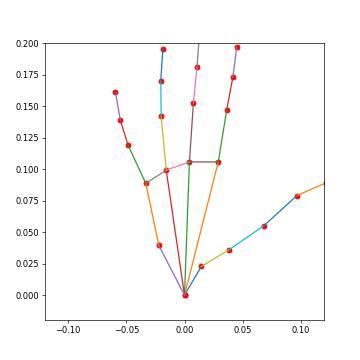
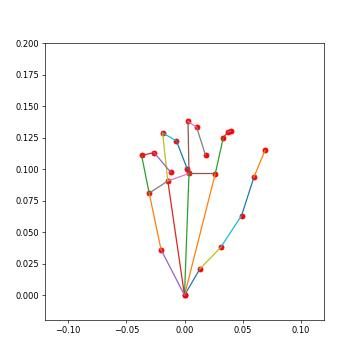
adding left arm control2

diff --git a/src/beavr/components/detector/left_keypoint_transform.py b/src/beavr/components/detector/left_keypoint_transform.py
@@ -5,6 +5,11 @@ from beavr.constants import *
 from beavr.utils.vectorops import *
 from beavr.utils.network import ZMQKeypointPublisher, ZMQKeypointSubscriber
 from beavr.utils.timer import FrequencyTimer
+from enum import Enum, auto, IntEnum
+
+class HandMode(IntEnum):
+    ABSOLUTE = 0
+    RELATIVE = 1
 
 # This class is used to transform the left hand coordinates from the VR to the robot frame.
 class TransformLeftHandPositionCoords(Component):
@@ -19,18 +24,24 @@ class TransformLeftHandPositionCoords(Component):
         self.timer = FrequencyTimer(VR_FREQ)
         
         # Keypoint indices for knuckles
-        self.knuckle_points = (OCULUS_JOINTS['knuckles'][0], OCULUS_JOINTS['knuckles'][-1])
+        self.wrist_idx = 0  # Wrist is typically the first point
+        self.index_knuckle_idx = OCULUS_JOINTS['knuckles'][0]  # Index finger knuckle
+        self.middle_knuckle_idx = OCULUS_JOINTS['knuckles'][1]  # Middle finger knuckle
+        self.pinky_knuckle_idx = OCULUS_JOINTS['knuckles'][-1]  # Pinky finger knuckle
 
         # Moving average queue
         self.moving_average_limit = moving_average_limit
         self.coord_moving_average_queue, self.frame_moving_average_queue = [], []
 
     def _get_hand_coords(self):
-
         # This is for getting hand keypoints from VR.
         data = self.original_keypoint_subscriber.recv_keypoints()
-        if data[0] == 0:
+        if data is None:
+            return None, None
+            
+        if data[0] == HandMode.ABSOLUTE:
             data_type = 'absolute'
+            print(f"Received absolute hand coords: {data[1:]}")
         else:
             data_type = 'relative'
 
@@ -40,16 +51,70 @@ class TransformLeftHandPositionCoords(Component):
         #Find the vectors with respect to the wrist.
         return copy(hand_coords) - hand_coords[0]
 
-    # Create a coordinate frame for the hand
-    def _get_coord_frame(self, index_knuckle_coord, pinky_knuckle_coord):
+    # New method to orthogonalize a set of vectors to ensure they form a valid rotation matrix
+    def _orthogonalize_frame(self, x_vec, y_vec, z_vec):
+        """Ensure three vectors form an orthogonal frame using Gram-Schmidt process"""
+        # Ensure x is normalized
+        x_vec = normalize_vector(x_vec)
+        
+        # Make y orthogonal to x
+        y_vec = y_vec - np.dot(y_vec, x_vec) * x_vec
+        y_vec = normalize_vector(y_vec)
+        
+        # Make z orthogonal to both x and y
+        z_vec = np.cross(x_vec, y_vec)
+        z_vec = normalize_vector(z_vec)
+        
+        return x_vec, y_vec, z_vec
 
+    # Create a stable coordinate frame for the hand using multiple landmarks
+    def _get_stable_coord_frame(self, hand_coords):
+        """Create a more stable coordinate frame using multiple hand landmarks"""
+        wrist = hand_coords[self.wrist_idx]
+        v1 = hand_coords[self.index_knuckle_idx] - wrist
+        v2 = hand_coords[self.pinky_knuckle_idx] - wrist
+        v3 = hand_coords[self.middle_knuckle_idx] - wrist
+
+        # Calculate frame vectors using multiple references
+        palm_normal = normalize_vector(np.cross(v1, v3))  # Z direction
+        palm_direction = normalize_vector((v1 + v2 + v3) / 3)  # Y direction
+        cross_product = normalize_vector(np.cross(palm_direction, palm_normal))  # X direction
+
+        # Orthogonalize explicitly to ensure a valid rotation matrix
+        x_vec, y_vec, z_vec = self._orthogonalize_frame(cross_product, palm_direction, palm_normal)
+
+        # Return as a list of vectors for compatibility with existing code
+        return [x_vec, y_vec, z_vec]
+
+    # Create a stable coordinate frame for the arm
+    def _get_stable_hand_dir_frame(self, hand_coords):
+        """Create a more stable frame for hand direction using multiple landmarks"""
+        wrist = hand_coords[self.wrist_idx]
+        v1 = hand_coords[self.index_knuckle_idx] - wrist
+        v2 = hand_coords[self.pinky_knuckle_idx] - wrist
+        v3 = hand_coords[self.middle_knuckle_idx] - wrist
+
+        # Calculate frame vectors using multiple references
+        palm_normal = normalize_vector(np.cross(v1, v3))  # Unity space - Y
+        palm_direction = normalize_vector((v1 + v2 + v3) / 3)  # Unity space - Z
+        cross_product = normalize_vector(np.cross(palm_direction, palm_normal))  # Unity space - X
+
+        # Orthogonalize explicitly
+        x_vec, y_vec, z_vec = self._orthogonalize_frame(cross_product, palm_normal, palm_direction)
+        
+        return [wrist, x_vec, y_vec, z_vec]
+
+    # Create a coordinate frame for the hand - legacy method kept for compatibility
+    def _get_coord_frame(self, index_knuckle_coord, pinky_knuckle_coord):
         #This function is used for retargeting hand keypoints from oculus. The frames here are in robot frame.
         palm_normal = normalize_vector(np.cross(index_knuckle_coord, pinky_knuckle_coord))   # Current Z
         palm_direction = normalize_vector(index_knuckle_coord + pinky_knuckle_coord)         # Current Y
         cross_product = normalize_vector(np.cross(palm_direction, palm_normal))              # Current X
-        return [cross_product, palm_direction, palm_normal]
+        
+        # Orthogonalize for improved stability
+        return self._orthogonalize_frame(cross_product, palm_direction, palm_normal)
 
-    # Create a coordinate frame for the arm
+    # Create a coordinate frame for the arm - legacy method kept for compatibility
     def _get_hand_dir_frame(self, origin_coord, index_knuckle_coord, pinky_knuckle_coord):
         # Calculating the transform in Left Handed system itself as unity being left hand coordinate system. This transform sends the frame in the form of vectors in Left Hand coordinate frame. Since we use only the relative transform between the hand movements the coordinate system does not matter. 
         # We find the relative transformation between the hand moving frames and use that to find the transformation in the robot frame and this does not depend on the coordinate system
@@ -58,27 +123,24 @@ class TransformLeftHandPositionCoords(Component):
         palm_direction = normalize_vector(pinky_knuckle_coord+index_knuckle_coord)         # Unity space Z            
         cross_product = normalize_vector(pinky_knuckle_coord-index_knuckle_coord)         # Unity space X 
 
-        return [origin_coord, cross_product, palm_normal, palm_direction]
+        # Orthogonalize for improved stability
+        x_vec, y_vec, z_vec = self._orthogonalize_frame(cross_product, palm_normal, palm_direction)
+        
+        return [origin_coord, x_vec, y_vec, z_vec]
 
     # Function to transform the hand keypoints to the robot frame
     def transform_keypoints(self, hand_coords):
-       
         translated_coords = self._translate_coords(hand_coords)  # Finding hand coords with respect to the wrist
 
-        original_coord_frame = self._get_coord_frame(           # Finding the original coordinate frame
-            translated_coords[self.knuckle_points[0]], 
-            translated_coords[self.knuckle_points[1]]
-        )
+        # Use the new, more stable coordinate frame method
+        original_coord_frame = self._get_stable_coord_frame(translated_coords)
        
         rotation_matrix = np.linalg.solve(original_coord_frame, np.eye(3)).T # Finding the rotation matrix and rotating the coordinates
         
         transformed_hand_coords = (rotation_matrix @ translated_coords.T).T # Find the transformed hand coordinates in the robot frame
-        # Find the transformed arm frame using knuckle coords
-        hand_dir_frame = self._get_hand_dir_frame(
-            hand_coords[0],
-            translated_coords[self.knuckle_points[0]], 
-            translated_coords[self.knuckle_points[1]]
-        )
+        
+        # Use the new, more stable hand direction frame method
+        hand_dir_frame = self._get_stable_hand_dir_frame(hand_coords)
 
         return transformed_hand_coords, hand_dir_frame
 
@@ -88,33 +150,54 @@ class TransformLeftHandPositionCoords(Component):
                 self.timer.start_loop()
                 # Get the hand coordinates
                 data_type, hand_coords = self._get_hand_coords()
+                if hand_coords is None:
+                    continue
 
                 # Find the transformed hand coordinates and the transformed hand local frame
                 transformed_hand_coords, translated_hand_coord_frame = self.transform_keypoints(hand_coords)
 
-                # Passing the transformed coords into a moving average to filter the noise. The higher the moving average limit, the more the noise is filtered. But values higher than 50 might make the keypoint less responsive.
+                # Passing the transformed coords into a moving average to filter the noise
                 self.averaged_hand_coords = moving_average(
                     transformed_hand_coords, 
                     self.coord_moving_average_queue, 
                     self.moving_average_limit
                 )
 
-                # Passing the transformed frame into a moving average to filter the noise. The higher the moving average limit, the more the noise is filtered. But the
+                # Passing the transformed frame into a moving average to filter the noise
                 self.averaged_hand_frame = moving_average(
                     translated_hand_coord_frame, 
                     self.frame_moving_average_queue, 
                     self.moving_average_limit
                 )
+                
+                # Ensure frame vectors remain orthogonal regardless of data type
+                # Keep origin point as is
+                origin = self.averaged_hand_frame[0]
+                # Extract the rotation vectors
+                x_vec = normalize_vector(self.averaged_hand_frame[1])
+                y_vec = normalize_vector(self.averaged_hand_frame[2])
+                z_vec = normalize_vector(self.averaged_hand_frame[3])
+                
+                # Re-orthogonalize the frame
+                x_vec, y_vec, z_vec = self._orthogonalize_frame(x_vec, y_vec, z_vec)
+                
+                # Reconstruct orthogonal frame
+                self.averaged_hand_frame = [origin, x_vec, y_vec, z_vec]
+                
                 # Publish the transformed hand coordinates
                 self.transformed_keypoint_publisher.pub_keypoints(self.averaged_hand_coords, 'transformed_hand_coords')
+                
                 # Publish the transformed hand frame
                 if data_type == 'absolute':
+                    print(f"Publishing transformed hand frame: {self.averaged_hand_frame}")
                     self.transformed_keypoint_publisher.pub_keypoints(self.averaged_hand_frame, 'transformed_hand_frame')
                 
                 # End the timer
                 self.timer.end_loop()
-            except:
+            except Exception as e:
+                print(f"Error in left keypoint transform: {e}")
                 break
+                
         # Stop the subscriber and publisher
         self.original_keypoint_subscriber.stop()
         self.transformed_keypoint_publisher.stop()

diff --git a/src/beavr/components/operators/xarm7_right.py b/src/beavr/components/operators/xarm7_right.py
@@ -77,13 +77,6 @@ class XArm7RightOperator(Operator):
         # Basic initialization
         self.notify_component_start('xarm7 right_operator')
         self._host, self._port = host, transformed_keypoints_port
-
-        # Add finger coordinate subscriber (like Allegro)
-        self._hand_transformed_keypoint_subscriber = ZMQKeypointSubscriber(
-            host = self._host,
-            port = self._port,
-            topic = 'transformed_hand_coords'
-        )
         
         self._arm_transformed_keypoint_subscriber = ZMQKeypointSubscriber(
             host=host,
@@ -175,13 +168,13 @@ class XArm7RightOperator(Operator):
         return self._robot
 
     @property
-    def transformed_hand_keypoint_subscriber(self):
-        """Required by Operator base class."""
-        return self._hand_transformed_keypoint_subscriber
-
-    @property
     def transformed_arm_keypoint_subscriber(self):
         return self._arm_transformed_keypoint_subscriber
+
+    @property
+    def transformed_hand_keypoint_subscriber(self):
+        """Required property from the Operator abstract class, returning None"""
+        return None
 
     def return_real(self):
         return self.real
@@ -193,6 +186,8 @@ class XArm7RightOperator(Operator):
         """Get the hand frame with efficient caching strategy."""
         # Try to get new data (just once to avoid latency)
         data = self._arm_transformed_keypoint_subscriber.recv_keypoints(flags=zmq.NOBLOCK)
+
+        print(data)
         
         if data is None:
             # If no new data, use cached frame immediately
@@ -324,14 +319,6 @@ class XArm7RightOperator(Operator):
     # ------------------------------
     # Main teleop: transforms
     # ------------------------------
-
-    def _get_finger_coords(self):
-        """Get transformed finger coordinates."""
-        finger_coords = self._arm_transformed_keypoint_subscriber.recv_keypoints()
-        if finger_coords is not None:
-            return np.array(finger_coords).reshape(-1, 3)
-        return None
-
     def _fix_quaternion_flips(self, quats):
         """Fix potential quaternion flips by ensuring all are in same hemisphere"""
         if len(quats) <= 1:
@@ -454,14 +441,14 @@ class XArm7RightOperator(Operator):
             except Exception as e:
                 print(f"Error logging frame: {e}")
 
-        if time.time() % 5 < 0.2:  # Print every 5 seconds
-            euler = self.quat_to_euler_rad(cart[3], cart[4], cart[5], cart[6])
-            print(f"\nDiagnostics:")
-            print(f"  Hand frame determinant: {np.linalg.det(self.hand_moving_H[:3,:3]):.4f}")
-            print(f"  Robot frame determinant: {np.linalg.det(self.robot_moving_H[:3,:3]):.4f}")
-            print(f"  Euler angles (deg): Roll={np.degrees(euler[0]):.1f}, Pitch={np.degrees(euler[1]):.1f}, Yaw={np.degrees(euler[2]):.1f}")
-            if hasattr(self, '_calibrated') and self._calibrated:
-                print(f"  Applied offsets (deg): Roll={np.degrees(self.orientation_offset[0]):.1f}, Pitch={np.degrees(self.orientation_offset[1]):.1f}, Yaw={np.degrees(self.orientation_offset[2]):.1f}")
+        # if time.time() % 5 < 0.2:  # Print every 5 seconds
+        #     euler = self.quat_to_euler_rad(cart[3], cart[4], cart[5], cart[6])
+        #     print(f"\nDiagnostics:")
+        #     print(f"  Hand frame determinant: {np.linalg.det(self.hand_moving_H[:3,:3]):.4f}")
+        #     print(f"  Robot frame determinant: {np.linalg.det(self.robot_moving_H[:3,:3]):.4f}")
+        #     print(f"  Euler angles (deg): Roll={np.degrees(euler[0]):.1f}, Pitch={np.degrees(euler[1]):.1f}, Yaw={np.degrees(euler[2]):.1f}")
+        #     if hasattr(self, '_calibrated') and self._calibrated:
+        #         print(f"  Applied offsets (deg): Roll={np.degrees(self.orientation_offset[0]):.1f}, Pitch={np.degrees(self.orientation_offset[1]):.1f}, Yaw={np.degrees(self.orientation_offset[2]):.1f}")
     
     def moving_average(self, action, queue, limit):
         """Apply moving average filter to action."""

diff --git a/src/beavr/components/detector/oculus.py b/src/beavr/components/detector/oculus.py
@@ -10,6 +10,9 @@ class OculusVRHandDetector(Component):
         self.raw_keypoint_socket = create_pull_socket(host, oculus_port)
         self.button_keypoint_socket = create_pull_socket(host, button_port)
         self.teleop_reset_socket = create_pull_socket(host, teleop_reset_port)
+        
+        # Store the oculus_port for topic detection
+        self.oculus_port = oculus_port
 
         # ONE publisher for ALL data - this is the key change
         self.unified_publisher = ZMQKeypointPublisher(
@@ -40,6 +43,10 @@ class OculusVRHandDetector(Component):
 
     # Function to Stream the Keypoints
     def stream(self):
+        # Determine if we're handling left hand based on the port
+        hand_side = 'left' if str(self.oculus_port) == '8110' else 'right'
+        print(f"VR detector identified as {hand_side} hand")
+        
         while True:
             try:
                 self.timer.start_loop()
@@ -69,7 +76,7 @@ class OculusVRHandDetector(Component):
                 # 1. Hand keypoints
                 self.unified_publisher.pub_keypoints(
                     keypoint_array=keypoint_dict['keypoints'], 
-                    topic_name='right'
+                    topic_name=hand_side  # Use the detected hand side
                 )
                 
                 # 2. Button feedback
